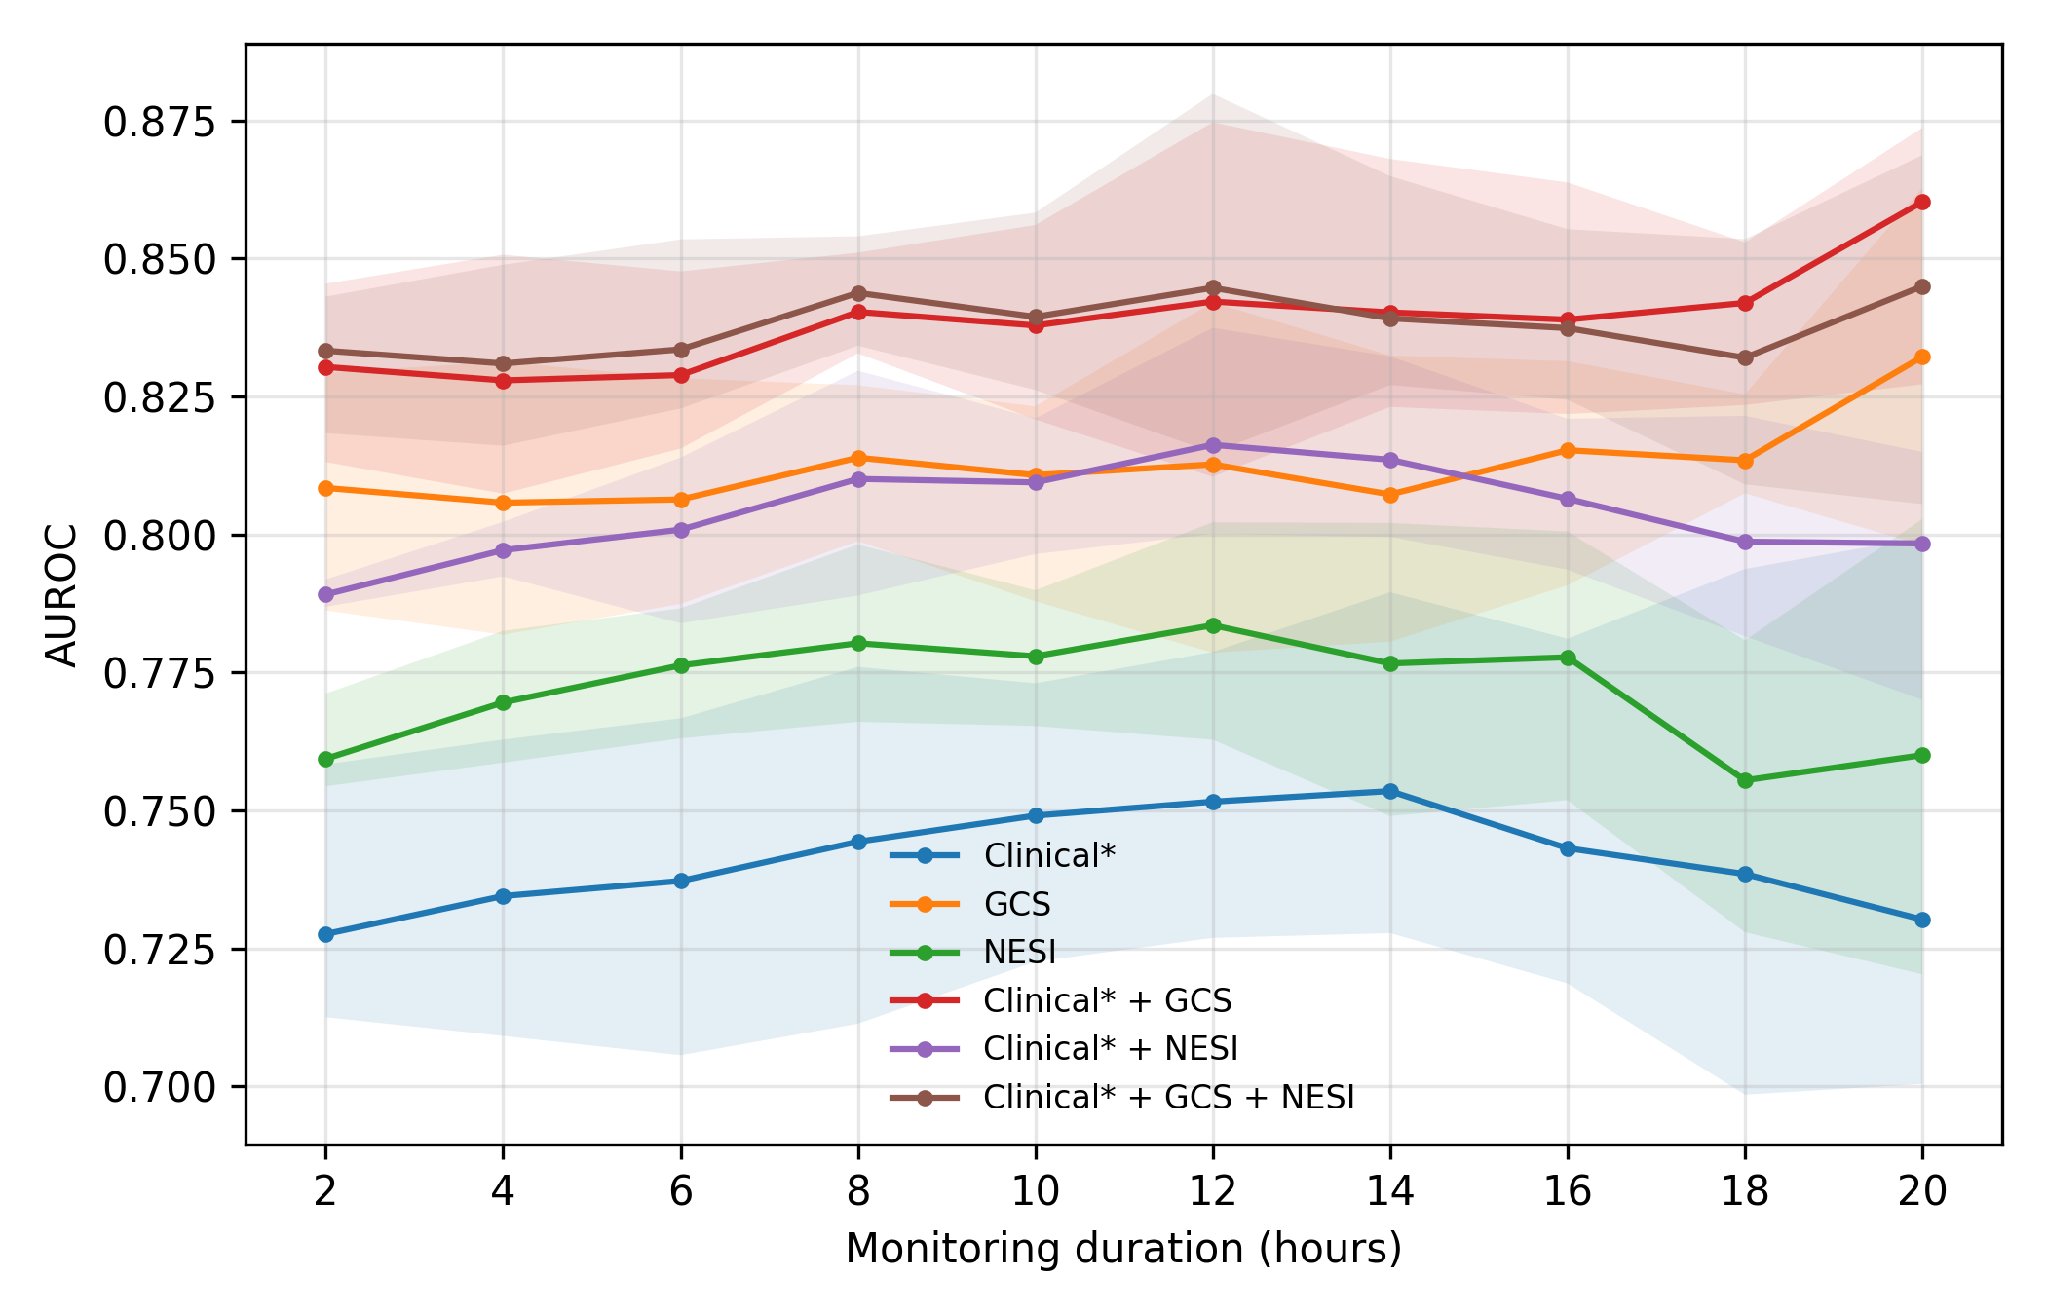
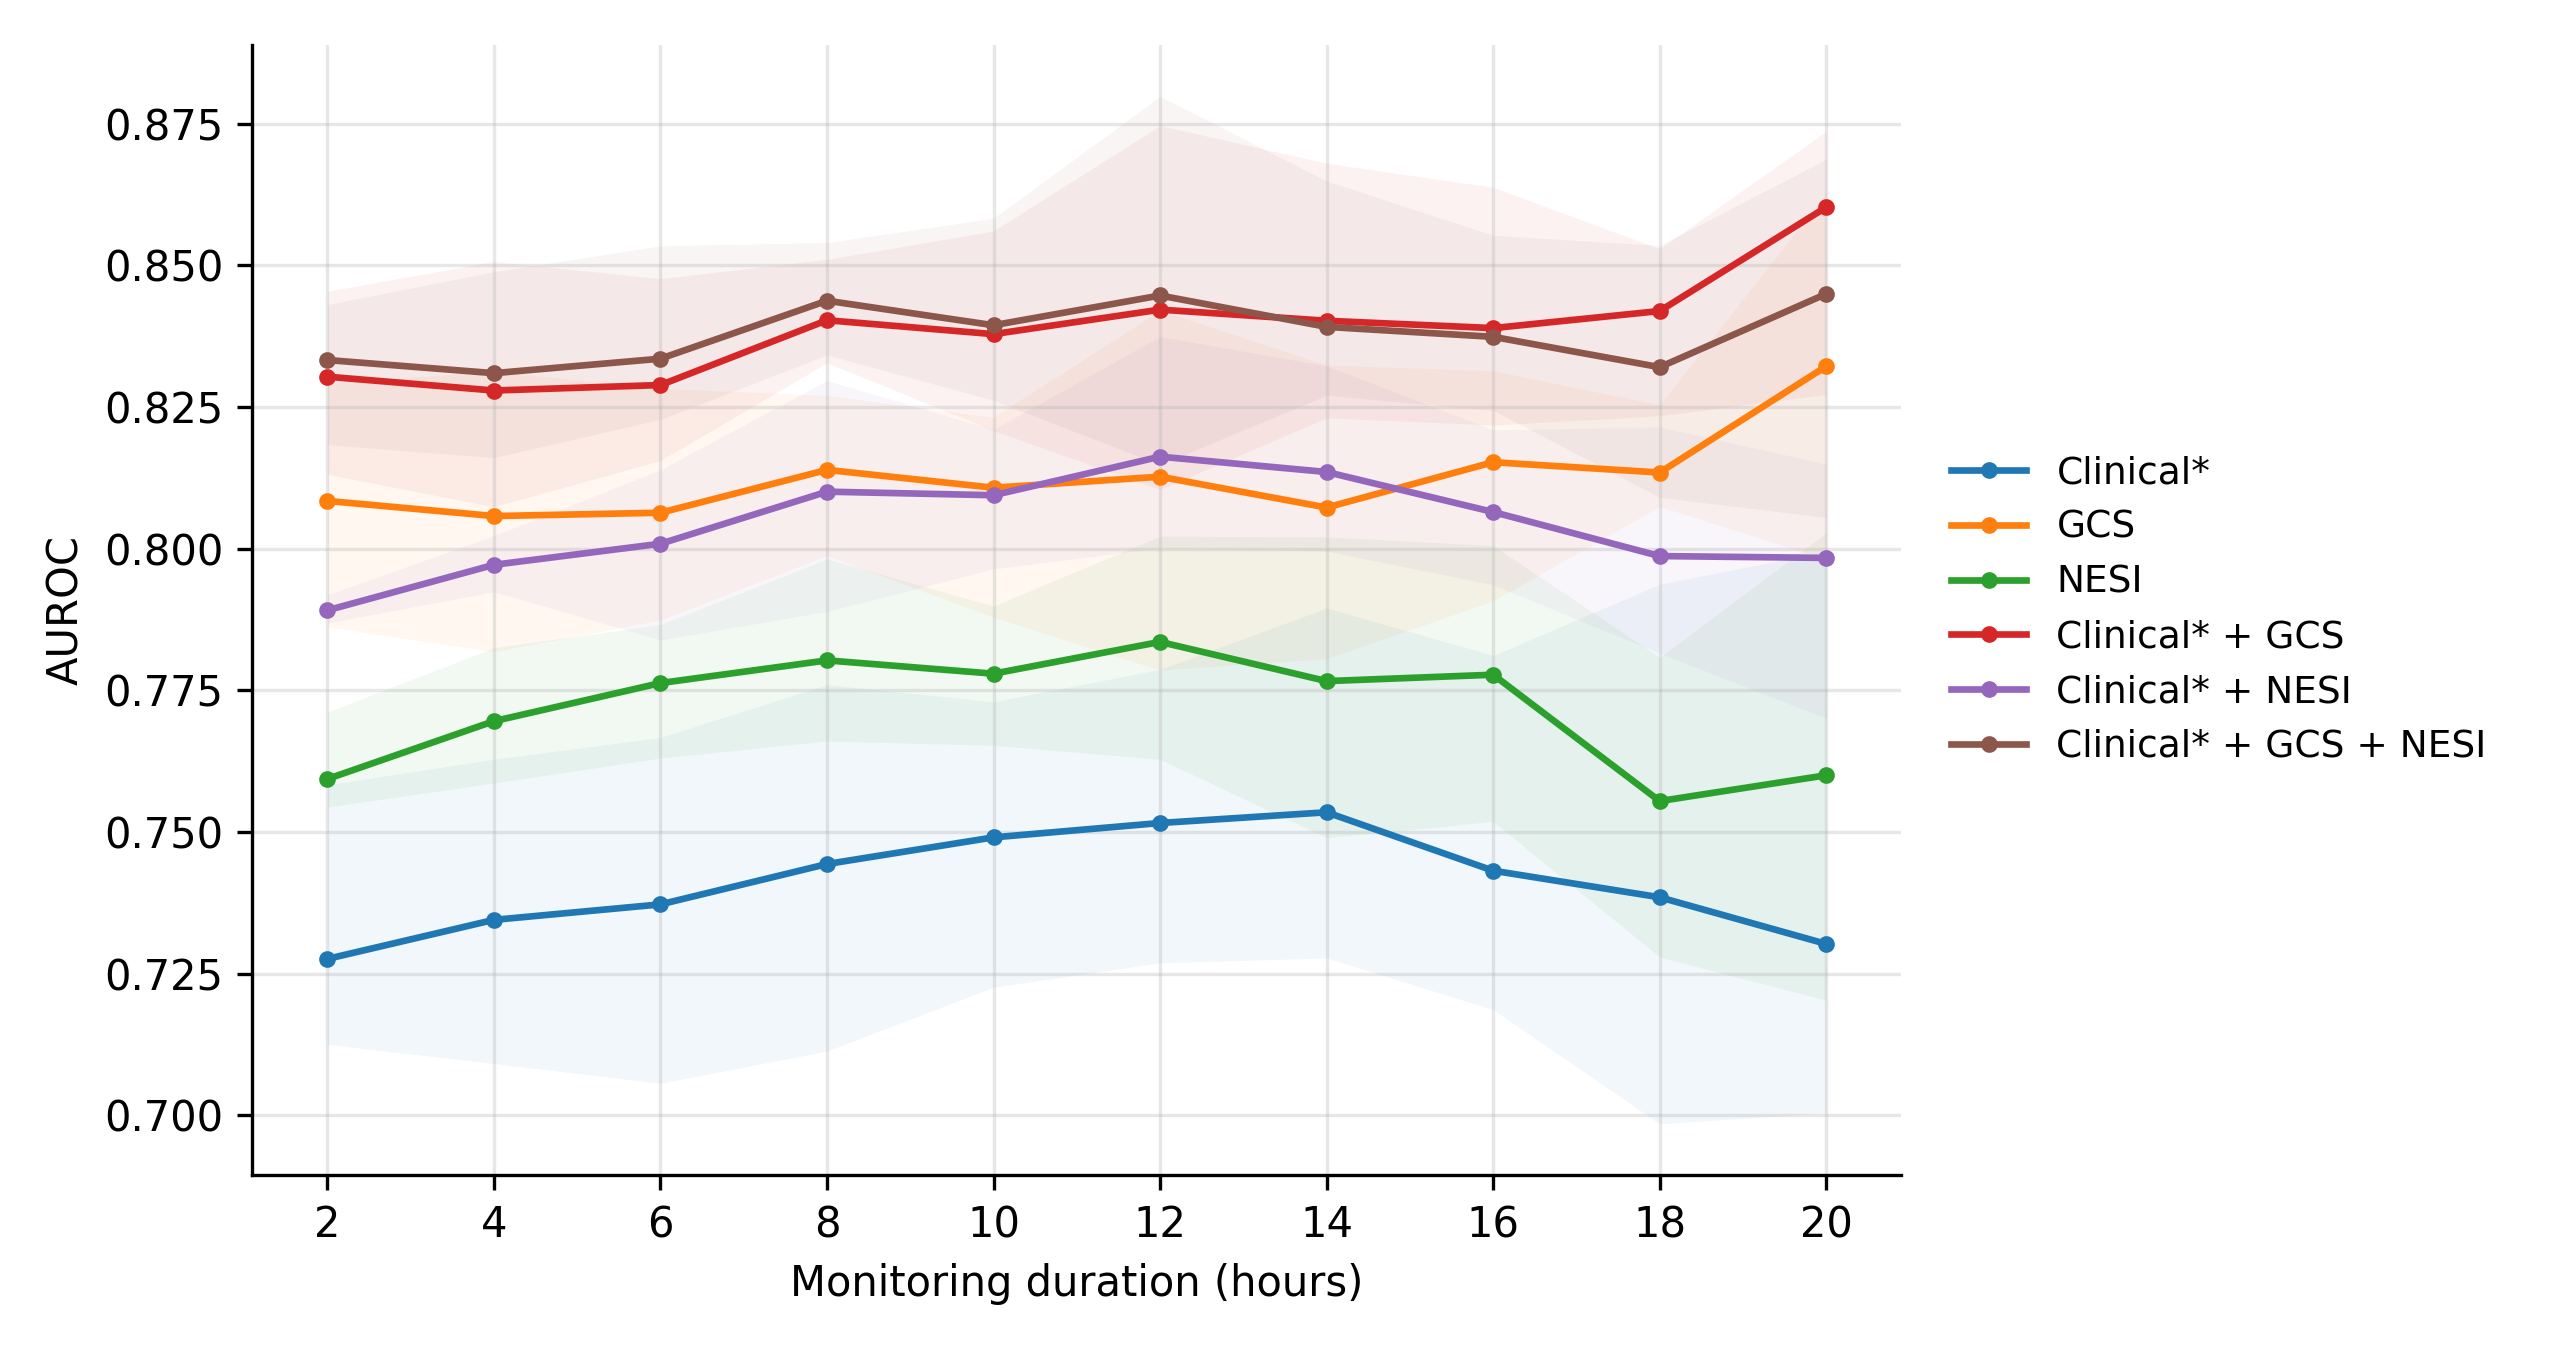
Fig 5: legend outside the plot, lighter min-max bands (values unchanged)

diff --git a/reproduce/mortality.py b/reproduce/mortality.py
@@ -428,14 +428,15 @@ def analyze():
 def plot_auroc(auc):
     import matplotlib.pyplot as plt
 
-    fig, ax = plt.subplots(figsize=(7, 4.5))
+    fig, ax = plt.subplots(figsize=(8.5, 4.5))
     for name in SETS:
         g = auc[auc.model == name].groupby("hour").auroc.agg(["mean", "min", "max"])
-        ax.plot(g.index, g["mean"], marker="o", ms=3, label=name)
-        ax.fill_between(g.index, g["min"], g["max"], alpha=0.12)
+        line, = ax.plot(g.index, g["mean"], marker="o", ms=3, lw=1.6, label=name)
+        ax.fill_between(g.index, g["min"], g["max"], color=line.get_color(), alpha=0.06, lw=0)
     ax.set(xlabel="Monitoring duration (hours)", ylabel="AUROC", xticks=HOURS)
     ax.grid(alpha=0.3)
-    ax.legend(frameon=False, fontsize=8)
+    ax.spines[["top", "right"]].set_visible(False)
+    ax.legend(frameon=False, fontsize=9, loc="center left", bbox_to_anchor=(1.01, 0.5))
     fig.tight_layout()
     fig.savefig(FIGS / "mortality_auroc_available_covariates.png", dpi=300)
     plt.close(fig)
